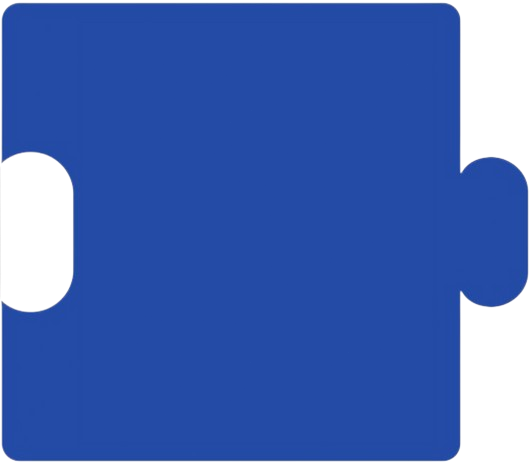
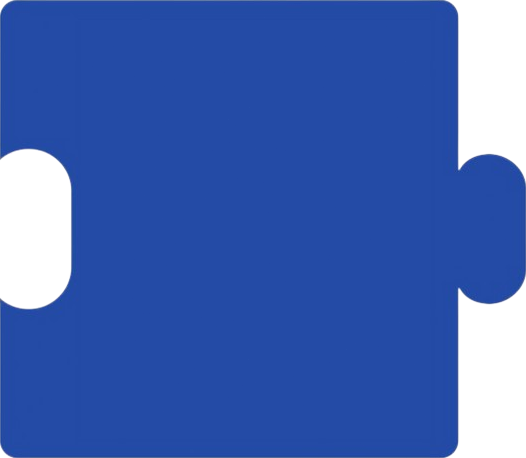
ShapeOverlay component

diff --git a/src/views/scan/Scan.tsx b/src/views/scan/Scan.tsx
@@ -1,8 +1,7 @@
 import React, { useContext, useEffect, useRef } from "react";
 import { Icon, wordpress } from "@wordpress/icons";
 import { ViewContext } from "../../context/view.ts";
-
-import shape from "../../assets/shape.png";
+import { ScanOverlay } from "../../components/scan-overlay/ScanOverlay.tsx";
 
 import "./Scan.scss";
 
@@ -10,7 +9,6 @@ export const Scan = () => {
   const { setView } = useContext(ViewContext);
   const video = useRef(null);
   const canvas = useRef(null);
-  const overlay = useRef(null);
 
   useEffect(() => {
     if (!video.current) {
@@ -53,42 +51,12 @@ export const Scan = () => {
     );
   }, [canvas, video]);
 
-  // create dark overlay wih hole in the middle
-  useEffect(() => {
-    if (!overlay.current) {
-      return;
-    }
-    const overlayElement = overlay.current as HTMLCanvasElement;
-    const ctx = overlayElement.getContext("2d");
-    if (!ctx) {
-      return;
-    }
-    overlayElement.width = window.innerWidth;
-    overlayElement.height = window.innerHeight;
-    ctx.fillStyle = "rgba(35, 40, 45, 0.9)";
-    ctx.fillRect(0, 0, overlayElement.width, overlayElement.height);
-    ctx.globalCompositeOperation = "xor";
-    // ctx.drawImage(img, 0, 0);
-
-    // ctx.globalCompositeOperation = "source-in";
-    const img = new Image();
-    img.src = shape;
-    img.width = window.innerWidth;
-    img.height = img.width * 0.885;
-    ctx.drawImage(
-      img,
-      (window.innerWidth - img.width) / 2,
-      (window.innerHeight - img.height) / 2
-    );
-    ctx.fill();
-  }, [overlay]);
-
   const onClick = () => {
     setView("site");
   };
   return (
     <article className="view view--scan">
-      <canvas className="scan__overlay" ref={overlay} />
+      <ScanOverlay />
       <video
         id="scan__video"
         ref={video}

diff --git a/src/components/scan-overlay/ScanOverlay.tsx b/src/components/scan-overlay/ScanOverlay.tsx
@@ -1,0 +1,54 @@
+import React from "react";
+import { useEffect, useRef } from "react";
+
+import shape from "../../assets/shape.png";
+
+import "./ScanOverlay.scss";
+
+export const ScanOverlay = () => {
+  const overlay = useRef(null);
+
+  const drawOverlay = () => {
+    if (!overlay.current) {
+      return;
+    }
+    const overlayElement = overlay.current as HTMLCanvasElement;
+    overlayElement.width = window.innerWidth;
+    overlayElement.height = window.innerHeight;
+    const ctx = overlayElement.getContext("2d");
+    if (!ctx) {
+      return;
+    }
+    ctx.fillStyle = "rgba(35, 40, 45, 0.9)";
+    ctx.fillRect(0, 0, overlayElement.width, overlayElement.height);
+    ctx.globalCompositeOperation = "destination-out";
+
+    const originalImageWidth = 526;
+    const originalImageHeight = 458;
+    const img = new Image();
+    img.src = shape;
+    img.width = window.innerWidth - 70;
+    if (img.width > originalImageWidth) {
+      img.width = originalImageWidth;
+    }
+    img.height = img.width * (originalImageHeight / originalImageWidth);
+    ctx.drawImage(
+      img,
+      (window.innerWidth - img.width) / 2,
+      (window.innerHeight - img.height) / 2,
+      img.width,
+      img.height
+    );
+    ctx.fill();
+  };
+
+  useEffect(drawOverlay, [overlay]);
+  useEffect(() => {
+    window.addEventListener("resize", drawOverlay);
+    return () => {
+      window.removeEventListener("resize", drawOverlay);
+    };
+  }, []);
+
+  return <canvas ref={overlay} className="scan-overlay" />;
+};

diff --git a/src/views/scan/Scan.scss b/src/views/scan/Scan.scss
@@ -1,14 +1,6 @@
 .scan__canvas {
   display: none;
 }
-.scan__overlay {
-  position: absolute;
-  top: 0;
-  left: 0;
-  width: 100%;
-  height: 100vh;
-  z-index: 1;
-}
 .scan__action {
   position: absolute;
   bottom: 18px;

diff --git a/src/components/scan-overlay/ScanOverlay.scss b/src/components/scan-overlay/ScanOverlay.scss
@@ -1,0 +1,8 @@
+.scan-overlay {
+  position: absolute;
+  top: 0;
+  left: 0;
+  width: 100%;
+  height: 100vh;
+  z-index: 1;
+}
